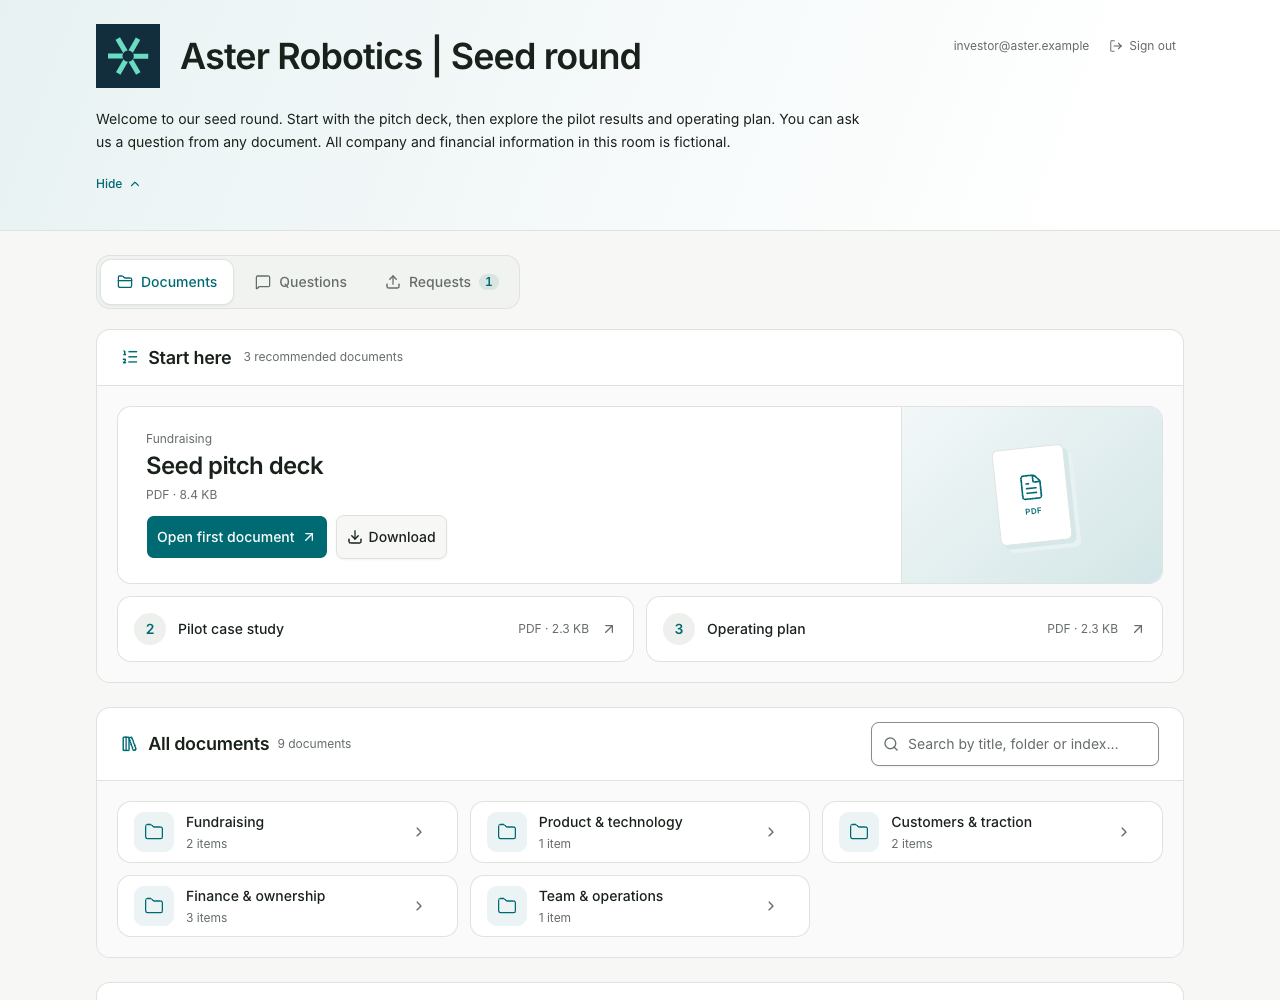
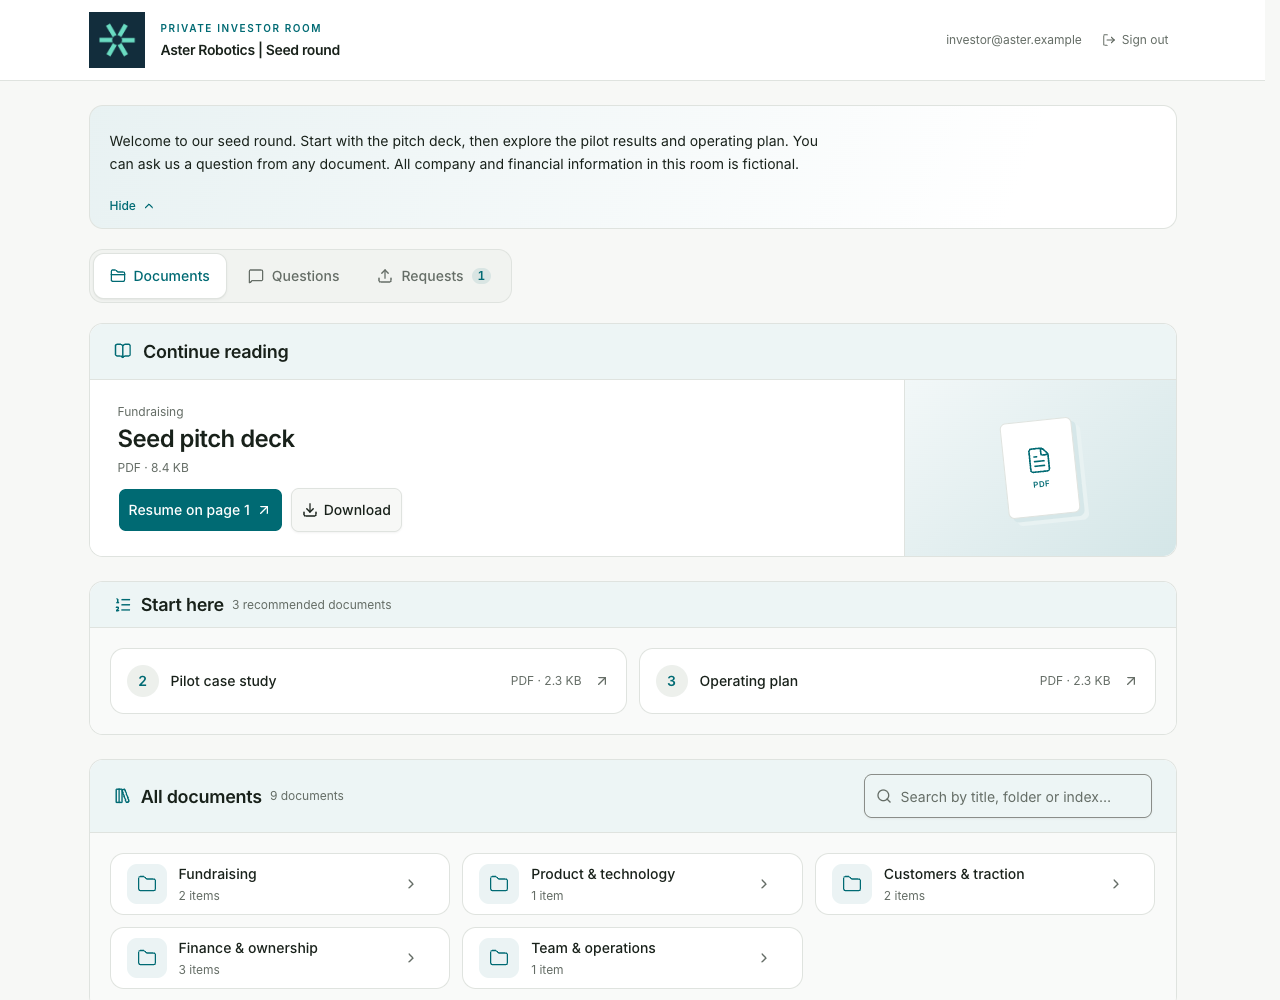
Use a compact investor header with a separate welcome section

diff --git a/src/lib/viewer/RoomWelcome.svelte b/src/lib/viewer/RoomWelcome.svelte
@@ -1,9 +1,9 @@
 <script lang="ts">
- import { ChevronDown, FolderClosed } from '@lucide/svelte';
- import { onMount, type Snippet } from 'svelte';
+ import { ChevronDown } from '@lucide/svelte';
+ import { onMount } from 'svelte';
  import { renderedExcerpt } from '#lib/markdown.ts';
 
- let { name, html = '', personal = false, homeHref, logoUrl, coverUrl, account, persistenceKey, revision, cookieName, savedOpen = null }: { name: string; html?: string; personal?: boolean; homeHref?: string; logoUrl: string | null; coverUrl?: string | null; account?: Snippet; persistenceKey?: string; revision?: string; cookieName?: string | null; savedOpen?: boolean | null } = $props();
+ let { html = '', personal = false, homeHref, coverUrl, persistenceKey, revision, cookieName, savedOpen = null }: { html?: string; personal?: boolean; homeHref?: string; coverUrl?: string | null; persistenceKey?: string; revision?: string; cookieName?: string | null; savedOpen?: boolean | null } = $props();
  let chosenOpen = $state<boolean | null>(null);
  let disclosure = $state<HTMLDetailsElement>();
  const excerpt = $derived(renderedExcerpt(html));
@@ -38,30 +38,22 @@
  }
 </script>
 
-<section class="room-cover @container/cover border-b" aria-label="Room introduction">
- <div class="relative mx-auto grid max-w-6xl items-center gap-3 px-4 py-4 @xl/cover:px-8 @xl/cover:py-6">
-  <div class="flex flex-wrap items-start justify-between gap-2">
-   <div class="flex min-w-0 flex-1 items-center gap-3 @xl/cover:gap-5">
-    {#if logoUrl}<img src={logoUrl} alt="" class="max-h-12 w-auto max-w-24 object-contain @xl/cover:max-h-16 @xl/cover:max-w-40" />
-    {:else}<span class="grid size-10 shrink-0 place-items-center rounded-xl border border-primary/15 bg-card/75 text-primary @xl/cover:size-14"><FolderClosed class="size-5 @xl/cover:size-7" strokeWidth={1.5} /></span>{/if}
-    <h1 class="text-2xl leading-tight font-semibold tracking-tight [overflow-wrap:anywhere] @xl/cover:text-4xl">{#if homeHref}<a href={homeHref} class="hover:text-primary">{name}</a>{:else}{name}{/if}</h1>
-   </div>
-   {#if account}{@render account()}{/if}
-  </div>
-  {#if coverUrl}<img src={coverUrl} alt="" class="h-20 w-full rounded-xl object-cover @xl/cover:h-36" />{/if}
+{#if html.trim() || coverUrl}
+<section class="room-cover mb-4 overflow-hidden rounded-xl border sm:mb-5" aria-label="Room introduction">
+  {#if coverUrl}<img src={coverUrl} alt="" class="h-20 w-full object-cover sm:h-36" />{/if}
   {#if html.trim()}
-   <div class="max-w-3xl">
+   <div class="max-w-3xl px-4 sm:px-5">
     <details bind:this={disclosure} open={expanded} class="group flex flex-col text-sm">
      <summary aria-label={`${expanded ? 'Hide' : 'Show'} ${personal ? 'personal welcome' : 'welcome'}`} class="order-last inline-flex min-h-11 min-w-11 cursor-pointer self-start list-none items-center gap-1.5 rounded-md text-xs font-medium text-primary hover:underline focus-visible:outline-2 focus-visible:outline-primary">
       {expanded ? 'Hide' : 'Show welcome'}<ChevronDown aria-hidden="true" class="size-3.5 group-open:rotate-180" />
      </summary>
-     <div class="md flow-root text-sm leading-relaxed [overflow-wrap:anywhere] [&>:first-child]:mt-0 [&>:last-child]:mb-0">{@html html}</div>
+     <div class="md flow-root pt-4 text-sm leading-relaxed [overflow-wrap:anywhere] [&>:first-child]:mt-0 [&>:last-child]:mb-0">{@html html}</div>
     </details>
-    {#if !expanded && preference === null}<p class="line-clamp-2 text-sm text-muted-foreground [overflow-wrap:anywhere]">{excerpt}</p>{/if}
+    {#if !expanded && preference === null}<p class="mb-3 line-clamp-2 text-sm text-muted-foreground [overflow-wrap:anywhere]">{excerpt}</p>{/if}
    </div>
   {/if}
- </div>
 </section>
+{/if}
 
 <style>
  .room-cover {

diff --git a/src/routes/v/[linkId]/+layout.svelte b/src/routes/v/[linkId]/+layout.svelte
@@ -24,16 +24,22 @@ function clearDrafts() {
 <div data-sveltekit-preload-data={false} class="investor-brand min-h-dvh bg-background" style={brandStyle(data.branding.accentColor)}>
 	{#if data.preview && !appearance}<div class="flex items-center justify-center gap-2 border-b bg-primary/5 px-4 py-2 text-center text-xs text-primary"><LockKeyhole class="size-3.5 shrink-0" />Investor preview · Your visit is not recorded<a class="ml-3 underline underline-offset-4" href="/admin/rooms/{data.roomId ?? ''}">Back to workspace</a></div>{/if}
 	{#snippet account()}{#if data.email}<form method="POST" onsubmit={(event) => { if (appearance) event.preventDefault(); else clearDrafts(); }} action="/v/{data.linkId}/signout" class="flex items-center gap-3"><span class="hidden max-w-56 truncate text-xs text-muted-foreground sm:block">{data.email}</span><button type="submit" disabled={!!appearance} class="flex items-center min-h-11 gap-1.5 rounded-md px-2 text-xs text-muted-foreground hover:bg-muted hover:text-foreground"><LogOut class="size-3.5" />Sign out</button></form>{/if}{/snippet}
-	<header class="bg-card">
-		{#if data.welcome}
-			{#key `${data.readingScope}:${data.welcome.revision}`}
-				<RoomWelcome {...data.welcome} homeHref={appearance ? undefined : `/v/${data.linkId}`} name={data.roomName} logoUrl={data.branding.logoUrl} coverUrl={data.branding.coverUrl} persistenceKey={`openroom:welcome:${data.readingScope}:${data.linkId}`} {account} />
-			{/key}
-		{:else}
-			<div class="mx-auto flex max-w-6xl flex-wrap items-center justify-between gap-3 px-4 py-3 sm:px-8"><a class="min-w-0 flex-1" href={appearance ? "#preview-documents" : `/v/${data.linkId}`} onclick={(event) => { if (appearance) { event.preventDefault(); appearance.onselect("documents"); } }}><BrandIdentity name={data.roomName} logoUrl={data.branding.logoUrl} /></a>{@render account()}</div>
-		{/if}
+	<header class="border-b bg-card">
+		<div class="mx-auto flex max-w-6xl flex-wrap items-center justify-between gap-3 px-4 py-3 sm:px-8">
+			<a class="min-w-0 flex-1" href={appearance ? '#preview-documents' : `/v/${data.linkId}`}
+				onclick={(event) => { if (appearance) { event.preventDefault(); appearance.onselect('documents'); } }}>
+				<BrandIdentity name={data.roomName} logoUrl={data.branding.logoUrl} />
+			</a>
+			{@render account()}
+		</div>
 	</header>
 	<main class="mx-auto max-w-6xl px-4 py-4 sm:px-8 sm:py-6">
+		{#if data.welcome}
+			{#key `${data.readingScope}:${data.welcome.revision}`}
+				<RoomWelcome {...data.welcome} homeHref={appearance ? undefined : `/v/${data.linkId}`}
+					coverUrl={data.branding.coverUrl} persistenceKey={`openroom:welcome:${data.readingScope}:${data.linkId}`} />
+			{/key}
+		{/if}
 		<RoomNavigation baseHref={`/v/${data.linkId}`} onselect={appearance?.onselect} active={appearance?.section ?? (questions ? 'questions' : requests ? 'requests' : 'documents')} unreadReplies={data.unreadReplies} actionRequests={data.actionRequests} />
 		{#key `${data.linkId}:${data.readingScope}:${page.params.fileId ?? ''}`}{@render children()}{/key}</main>
 	<footer class="mx-auto flex max-w-6xl flex-wrap items-center justify-between gap-3 px-5 py-8 text-xs text-muted-foreground sm:px-8"><span class="flex items-center gap-1.5"><LockKeyhole class="size-3" />Shared privately with you</span><OpenRoomCredit /></footer>

diff --git a/src/lib/viewer/BrandIdentity.svelte b/src/lib/viewer/BrandIdentity.svelte
@@ -5,8 +5,8 @@
 </script>
 
 <span class="@container/identity block min-w-0 flex-1">
- <span class="flex min-w-0 flex-wrap items-center gap-x-4 gap-y-2">
-  {#if logoUrl}<img src={logoUrl} alt={`${name} logo`} class="max-h-12 w-auto max-w-40 object-contain object-left @sm/identity:max-h-14 @sm/identity:max-w-48" />{:else}<span class="flex size-11 shrink-0 items-center justify-center rounded-xl bg-primary/8 text-primary"><FolderClosed class="size-6" strokeWidth={1.6} /></span>{/if}
-  <span class="min-w-0 flex-1 basis-32"><span class="mb-1 block text-[10px] font-semibold tracking-[0.16em] text-primary uppercase">Private investor room</span><span class="line-clamp-2 block break-words text-sm font-semibold tracking-tight [overflow-wrap:anywhere]">{name}</span></span>
+ <span class="flex min-w-0 items-center gap-2 @sm/identity:gap-4">
+  {#if logoUrl}<img src={logoUrl} alt={`${name} logo`} class="max-h-12 w-auto max-w-[35%] object-contain object-left @sm/identity:max-h-14 @sm/identity:max-w-48" />{:else}<span class="flex size-11 shrink-0 items-center justify-center rounded-xl bg-primary/8 text-primary"><FolderClosed class="size-6" strokeWidth={1.6} /></span>{/if}
+  <span class="min-w-0 flex-1"><span class="mb-1 block text-[10px] font-semibold tracking-[0.16em] text-primary uppercase">Private investor room</span><span class="line-clamp-2 break-words text-sm font-semibold tracking-tight [overflow-wrap:anywhere]">{name}</span></span>
  </span>
 </span>

diff --git a/src/routes/v/[linkId]/+page.svelte b/src/routes/v/[linkId]/+page.svelte
@@ -147,6 +147,7 @@
 <svelte:window bind:scrollY />
 
 <svelte:head><title>{data.roomName}</title></svelte:head>
+<h1 class="sr-only">{data.roomName} documents</h1>
 
 {#snippet reviewDownload(file: { id: string; name: string; version: number | null })}
 	{#key `${data.readingScope}:${file.id}:${file.version}`}

diff --git a/docs/contributing/design.md b/docs/contributing/design.md
@@ -104,6 +104,6 @@ See the [UI standards implementation and screenshot gallery](../reviews/ui-stand
 
 ## Task visibility and resilient layouts
 
-The investor home groups Continue reading, Start here, All documents and Room FAQ into separate sections with the same room-accent tint on each heading. Document rows show full titles at narrow widths so identifying periods and versions remain visible. Documents, Questions and Requests share the room header and welcome disclosure. Search and folder browsing retain URL-backed filters and preserve the return location. Entry forms precede the extended welcome. PDF questions use a bounded scrollable dialog and a fixed-size textarea, including when the allowed question length is reached. Active PDF search replaces the mobile secondary toolbar row; page and zoom tools remain available in Reader options.
+The investor home groups Continue reading, Start here, All documents and Room FAQ into separate sections with the same room-accent tint on each heading. Document rows show full titles at narrow widths so identifying periods and versions remain visible. All investor room screens use the compact identity header. Documents, Questions and Requests share a separate welcome disclosure between the header and navigation. Search and folder browsing retain URL-backed filters and preserve the return location. Entry forms precede the extended welcome. PDF questions use a bounded scrollable dialog and a fixed-size textarea, including when the allowed question length is reached. Active PDF search replaces the mobile secondary toolbar row; page and zoom tools remain available in Reader options.
 
 Appearance focus must stay above the measured sticky footer, and validation must reveal the invalid control. Device samples render at explicit 360/1280 px canvas widths with visible scaling and an actual-size option; Fit to panel follows available width. Sharing-link drafts need a discard decision on dismissal, including navigation. Mobile document controls precede the collapsible pinned summary. Urgent server warnings remain visible; backup setup details use disclosure. Mobile sharing rows reflow protection facts instead of removing them.

diff --git a/docs/using-openroom.md b/docs/using-openroom.md
@@ -91,7 +91,7 @@ NDA requirement in defaults or a link. Publishing a replacement requires affecte
 accept the new version. Acceptance records retain the version, signed name, email, verification
 state, time and IP according to the documented privacy rules.
 
-Investors follow their link, pass the configured gates and enter the document list. The branded header brings together the room title, logo, optional cover and welcome. A room with one visible document opens with its title and an **Open document** or **Download file** action. In larger rooms, **Start here** features the first outstanding recommendation and shows the remaining documents in reading order, with cards side by side on wider screens and a single list on phones. On phones, **Show all recommended documents** expands longer lists.
+Investors follow their link, pass the configured gates and enter the document list. A compact header shows the room title, logo and account controls throughout the investor room. The optional cover and welcome appear below it on the room tabs. A room with one visible document opens with its title and an **Open document** or **Download file** action. In larger rooms, **Start here** features the first outstanding recommendation and shows the remaining documents in reading order, with cards side by side on wider screens and a single list on phones. On phones, **Show all recommended documents** expands longer lists.
 **All documents** uses the same responsive layout for folders, files and search results. Folder cards show the item count. File cards show the file type and size. Search by document title, folder name or section number. Results include matching folders and files within matching folder paths. Section numbers reflect the contents visible through the current sharing link. Opening a document
 and using its return link restores the folder, search and scroll position. A document opened from
 Start here follows that reading order with Previous/Next controls, respecting current permissions.

diff --git a/docs/settings.md b/docs/settings.md
@@ -23,9 +23,9 @@ In **Room settings & branding**, edit the room name and welcome Markdown alongsi
 colour. The editor shows which values come from the workspace. **Use workspace logo/colour** stages
 a reset; save to apply it. Later workspace changes flow through to rooms without overrides.
 At email entry, the welcome is available below the form through **Read the welcome**, so long introductions never push access controls down the page. Inside the room it appears as a collapsible introduction, including
-returning visits. The logo is prominent in the header and the brand colour frames the introduction.
+returning visits. The logo stays in the compact room header. The optional cover and introduction appear in a separate, brand-coloured section below it.
 Messages up to 600 plain-text characters open by default; longer introductions start with a two-line
-excerpt and **Show welcome**, keeping documents within reach. An investor’s explicit open/closed choice is remembered for that note on future visits through the same investor link in this browser. An empty introduction leaves the header compact.
+excerpt and **Show welcome**, keeping documents within reach. An investor’s explicit open/closed choice is remembered for that note on future visits through the same investor link in this browser. When both the introduction and cover are empty, navigation follows the header directly.
 
 On phones and tablets, switch between **Edit** and **Preview** while retaining your draft; the save
 bar stays available. Desktop shows both together. The preview scrolls within a bounded frame and

diff --git a/README.md b/README.md
@@ -4,7 +4,7 @@ A self-hosted data room for fundraising and due diligence. Give each investor a 
 
 **[Run locally](#run-locally) · [Deploy on a VPS](#deploy-on-your-server) · [Read the product guide](docs/using-openroom.md) · [Use the API, MCP or CLI](#api-mcp-and-cli)**
 
-![Aster Robotics investor room with the seed pitch deck and two recommended documents in Start here, above the searchable folder library](docs/images/investor-room-overview.png)
+![Aster Robotics investor room with a compact header, a separate welcome and a seed pitch deck above the recommendations and searchable folder library](docs/images/investor-room-overview.png)
 
 ## Share your first room
 
